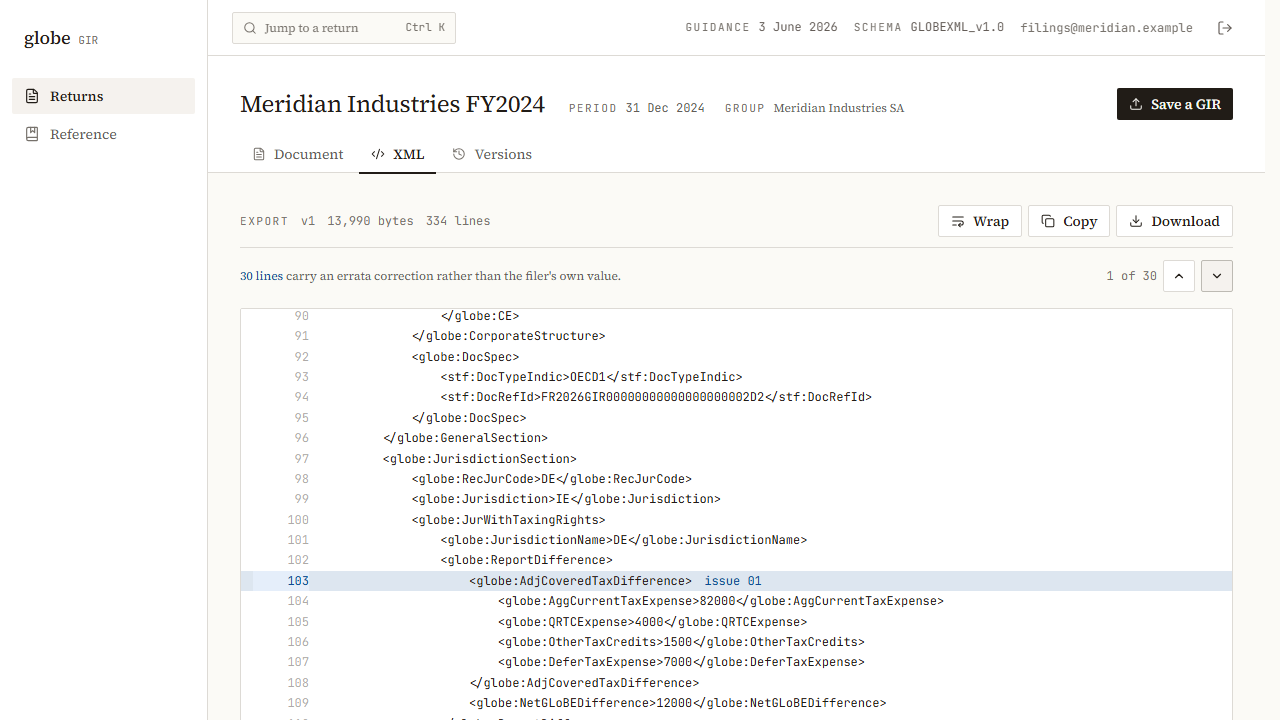
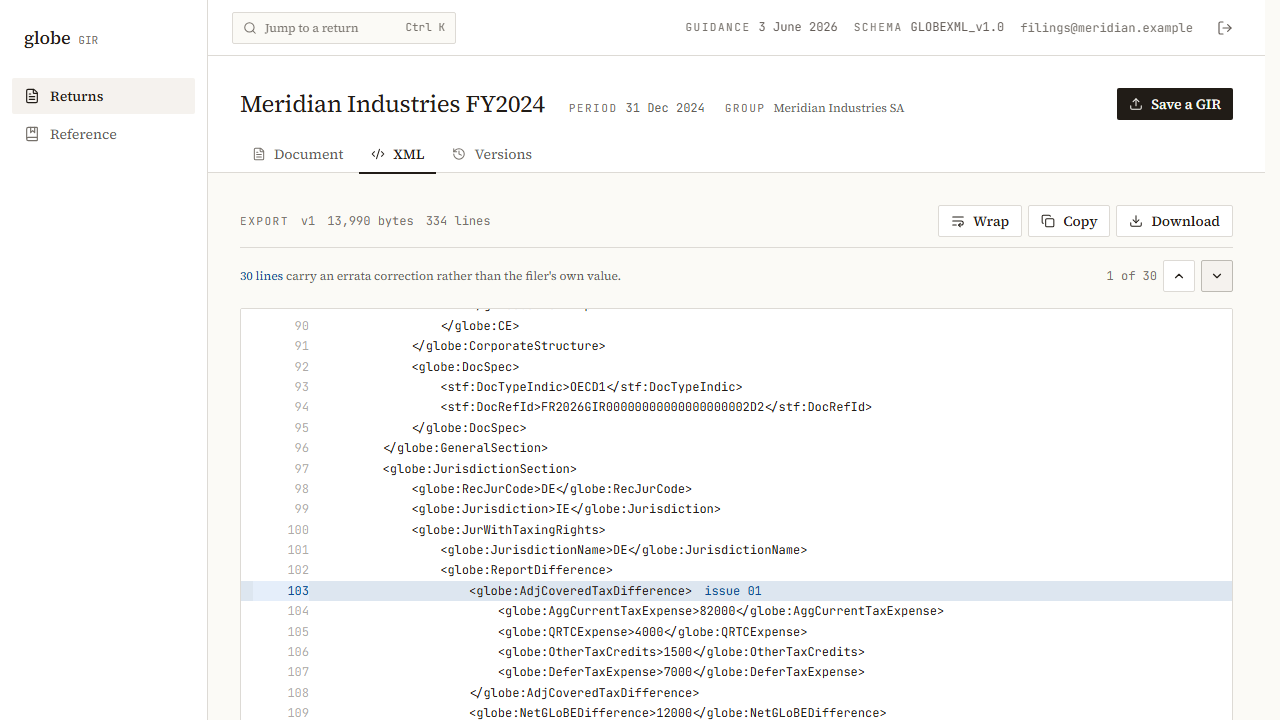
Give every route one width and stop the tree drawing 130 rules

Changed region(s): [[0.1875, 0.4278, 0.9688, 1.0]]

diff --git a/frontend/src/components/returns/document-node.tsx b/frontend/src/components/returns/document-node.tsx
@@ -2,7 +2,7 @@
 
 import { ChevronRight } from "lucide-react";
 import { AnimatePresence, motion } from "motion/react";
-import { type FC, useState } from "react";
+import { type CSSProperties, type FC, useState } from "react";
 import type { AnnotationIndex, NodeAnnotations } from "@/lib/annotations";
 import type { GirElement } from "@/lib/document";
 import {
@@ -48,6 +48,39 @@ const INDENT_REM = 0.875;
 // margin at a different offset and the column comes apart down the page.
 export const NODE_GRID = "grid grid-cols-[minmax(0,1fr)] lg:grid-cols-[minmax(0,1fr)_18rem]";
 
+/**
+ * A row carries no rule of its own.
+ *
+ * Several hundred rows each drawing a full-width border turns a document into a
+ * spreadsheet, and against that many lines nothing else on the page can register as
+ * structure. Hierarchy comes from the indent guide, which is what a horizontal rule
+ * never provided; tracking comes from hover, which costs nothing when nobody is
+ * pointing at the row.
+ */
+const ROW = "items-start gap-x-8";
+
+/**
+ * One faint vertical line per ancestor level, drawn as a repeating gradient.
+ *
+ * A guide per level would mean a nested wrapper per level, and the padding on this row
+ * already carries the indent, so the lines are painted into the row's own background
+ * instead. They sit half an indent left of the text, where a chevron would be.
+ *
+ * Kept far fainter than any real border: at depth six, six full-strength lines would be
+ * the crosshatch the row rules were removed to escape.
+ */
+const guides = (depth: number): CSSProperties => {
+  if (depth === 0) return {};
+
+  const step = `${INDENT_REM}rem`;
+  return {
+    backgroundImage: `repeating-linear-gradient(to right, var(--color-guide) 0 1px, transparent 1px ${step})`,
+    backgroundSize: `calc(${depth} * ${step}) 100%`,
+    backgroundRepeat: "no-repeat",
+    backgroundPosition: `${INDENT_REM / 2}rem 0`,
+  };
+};
+
 const DocumentNode: FC<DocumentNodeProps> = ({
   element,
   depth,
@@ -71,22 +104,19 @@ const DocumentNode: FC<DocumentNodeProps> = ({
 
   if (children.length === 0) {
     return (
-      <div
-        className={cn(NODE_GRID, "items-start gap-x-8 border-border/60 border-b")}
-        data-path={path}
-      >
+      <div className={cn(NODE_GRID, ROW)} data-path={path}>
         {/*
-          No hover background: a leaf has nothing to open and nothing to press. Tinting
-          it under the cursor promises an action that does not exist, and next to the
-          containers, which do respond, it made the whole tree ambiguous about what was
-          clickable.
+          A leaf tracks under the cursor but does not look pressable: the tint is half
+          the strength a container's is, and there is no cursor change. With no rule per
+          row, something has to hold the eye across to the value; this does that only
+          while the reader is actually pointing at the row.
         */}
         <div
           className={cn(
-            "grid grid-cols-[minmax(0,1fr)_auto] items-baseline gap-4 py-1.5 pr-2",
+            "grid grid-cols-[minmax(0,1fr)_auto] items-baseline gap-4 py-1.5 pr-2 transition-colors duration-150 hover:bg-sunk/45",
             note !== null && "bg-ink-applied/[0.035]",
           )}
-          style={{ paddingLeft: `${depth * INDENT_REM + 1.5}rem` }}
+          style={{ paddingLeft: `${depth * INDENT_REM + 1.5}rem`, ...guides(depth) }}
         >
           <span className="min-w-0 truncate font-mono text-sm text-text-muted">{name}</span>
 
@@ -102,7 +132,7 @@ const DocumentNode: FC<DocumentNodeProps> = ({
 
   return (
     <div data-path={path}>
-      <div className={cn(NODE_GRID, "items-start gap-x-8 border-border/60 border-b")}>
+      <div className={cn(NODE_GRID, ROW)}>
         <button
           aria-expanded={open}
           className={cn(
@@ -110,7 +140,7 @@ const DocumentNode: FC<DocumentNodeProps> = ({
             note !== null && "bg-ink-applied/[0.035]",
           )}
           onClick={() => setOpen((current) => !current)}
-          style={{ paddingLeft: `${depth * INDENT_REM + 0.25}rem` }}
+          style={{ paddingLeft: `${depth * INDENT_REM + 0.25}rem`, ...guides(depth) }}
           type="button"
         >
           <ChevronRight

diff --git a/frontend/src/components/returns/return-document.tsx b/frontend/src/components/returns/return-document.tsx
@@ -12,7 +12,7 @@ import type { GirDocument } from "@/lib/document";
 import { allPaths, childElements, childKey, localName } from "@/lib/document";
 import { queryKeys } from "@/lib/query-keys";
 import { cn } from "@/lib/utils";
-import DocumentNode, { NODE_GRID } from "./document-node";
+import DocumentNode from "./document-node";
 import JurisdictionFigures from "./jurisdiction-figures";
 import { ErrataNote, SuppressionNote } from "./margin-note";
 import ReturnHeader from "./return-header";
@@ -95,36 +95,38 @@ const ReturnDocument: FC<{ returnId: string }> = ({ returnId }) => {
       <ReturnHeader record={data.return} />
 
       <Measure className="py-8">
-        <div className={`${NODE_GRID} gap-x-8`}>
-          <div className="flex min-w-0 flex-wrap items-baseline gap-x-3 border-border border-b pb-2">
-            <span className="font-mono text-micro text-text-faint uppercase tracking-[0.14em]">
-              Document
-            </span>
-            <span className="font-mono text-text-faint text-xs">{localName(root.name)}</span>
-            <span className="figure ml-auto text-text-faint text-xs">v{version}</span>
-          </div>
+        {/*
+          One rule across the page, not one per column. The suppressions directly beneath
+          span the full width, so splitting this into "Document" and "Margin" halves drew
+          a header for two columns that do not begin until the tree further down, and left
+          the right-hand rule sitting over nothing.
 
-          <div className="hidden items-baseline justify-between border-border border-b pb-2 lg:flex">
-            <span className="font-mono text-micro text-text-faint uppercase tracking-[0.14em]">
-              Margin
-            </span>
+          No bottom border here either: whatever follows opens with its own rule, and two
+          of them 24px apart read as a mistake rather than as a division.
+        */}
+        <div className="flex h-11 flex-wrap items-center gap-x-3">
+          <span className="font-mono text-micro text-text-faint uppercase tracking-[0.14em]">
+            Document
+          </span>
+          <span className="font-mono text-text-faint text-xs">{localName(root.name)}</span>
+          <span className="figure text-text-faint text-xs">v{version}</span>
 
-            {validation.run !== null && (
-              <Button
-                disabled={isPending}
-                onClick={() => revalidate()}
-                size="sm"
-                variant="secondary"
-              >
-                <RefreshCw
-                  aria-hidden="true"
-                  className={cn("size-3.5", isPending && "animate-spin")}
-                  strokeWidth={1.75}
-                />
-                {isPending ? "Running" : "Re-run"}
-              </Button>
-            )}
-          </div>
+          {validation.run !== null && (
+            <Button
+              className="ml-auto"
+              disabled={isPending}
+              onClick={() => revalidate()}
+              size="sm"
+              variant="secondary"
+            >
+              <RefreshCw
+                aria-hidden="true"
+                className={cn("size-3.5", isPending && "animate-spin")}
+                strokeWidth={1.75}
+              />
+              {isPending ? "Running" : "Re-run"}
+            </Button>
+          )}
         </div>
 
         {validation.run === null ? (

diff --git a/frontend/src/components/returns/return-header.tsx b/frontend/src/components/returns/return-header.tsx
@@ -5,14 +5,13 @@ import Link from "next/link";
 import { usePathname } from "next/navigation";
 import { type FC, useState } from "react";
 import Button from "@/components/ui/button";
-import Measure, { type MeasureName } from "@/components/ui/measure";
+import Measure from "@/components/ui/measure";
 import type { ReturnRecord } from "@/lib/api";
 import { cn, formatPeriod } from "@/lib/utils";
 import SaveVersionDialog from "./save-version-dialog";
 
 interface ReturnHeaderProps {
   readonly record: ReturnRecord;
-  readonly measure?: MeasureName;
   /**
    * Opens the caller's own save dialog instead of this one.
    *
@@ -30,7 +29,7 @@ interface ReturnHeaderProps {
  * prefetch, so they have to be navigable, shareable and openable in a new tab. A
  * client-side tab widget would make three of the product's five surfaces unlinkable.
  */
-const ReturnHeader: FC<ReturnHeaderProps> = ({ record, measure = "document", onSave }) => {
+const ReturnHeader: FC<ReturnHeaderProps> = ({ record, onSave }) => {
   const pathname = usePathname();
   const [saving, setSaving] = useState(false);
 
@@ -45,7 +44,7 @@ const ReturnHeader: FC<ReturnHeaderProps> = ({ record, measure = "document", onS
 
   return (
     <header className="border-border border-b bg-surface">
-      <Measure as={measure} className="pt-8">
+      <Measure className="pt-8">
         <div className="flex flex-wrap items-center justify-between gap-x-6 gap-y-3">
           <div className="flex min-w-0 flex-wrap items-baseline gap-x-6 gap-y-2">
             <h1 className="min-w-0 font-normal text-2xl tracking-[-0.015em]">{record.name}</h1>

diff --git a/frontend/src/components/ui/measure.tsx b/frontend/src/components/ui/measure.tsx
@@ -1,23 +1,26 @@
 import type { FC, ReactNode } from "react";
 import { cn } from "@/lib/utils";
 
-// A page and its header must read the same measure, or the two sit at different widths
-// and the page shifts sideways when the tab changes.
-const MEASURE = {
-  document: "max-w-6xl",
-  prose: "max-w-3xl",
-} as const;
-
-export type MeasureName = keyof typeof MEASURE;
+/**
+ * One page width, everywhere.
+ *
+ * Every route shares this shell so the content does not jump sideways when the rail
+ * takes you between them. An earlier version offered a second, narrower measure for
+ * reading pages; that fixed a header sitting at one width above a body at another, and
+ * replaced it with the reference page snapping 384px narrower than every other route.
+ *
+ * Long-form text still wants a shorter line than 1152px. It gets one from `max-w-prose`
+ * on the paragraph itself, which narrows the text without moving the page around it.
+ */
+const MEASURE = "max-w-6xl";
 
 interface MeasureProps {
   readonly children: ReactNode;
-  readonly as?: MeasureName;
   readonly className?: string;
 }
 
-const Measure: FC<MeasureProps> = ({ children, as = "document", className }) => (
-  <div className={cn("mx-auto w-full px-4 sm:px-8", MEASURE[as], className)}>{children}</div>
+const Measure: FC<MeasureProps> = ({ children, className }) => (
+  <div className={cn("mx-auto w-full px-4 sm:px-8", MEASURE, className)}>{children}</div>
 );
 
 export default Measure;

diff --git a/frontend/src/components/returns/versions-view.tsx b/frontend/src/components/returns/versions-view.tsx
@@ -62,9 +62,14 @@ const VersionsView: FC<{ returnId: string }> = ({ returnId }) => {
               <span className="text-right">Export</span>
             </div>
 
+            {/*
+              Rules between rows, not under every one. A trailing rule under the last row
+              sits directly above whatever follows and reads as a stray line rather than
+              as the end of the list.
+            */}
             {newestFirst.map((version) => (
               <div
-                className="grid grid-cols-[4rem_1fr_auto] items-baseline gap-4 border-border border-b px-3 py-3.5"
+                className="grid grid-cols-[4rem_1fr_auto] items-baseline gap-4 border-border border-b px-3 py-3.5 last:border-b-0"
                 key={version.id}
               >
                 <span className="figure font-medium text-sm">v{version.version}</span>
@@ -87,7 +92,7 @@ const VersionsView: FC<{ returnId: string }> = ({ returnId }) => {
             ))}
 
             {pair === null ? (
-              <p className="mt-10 border-border border-t pt-4 text-sm text-text-faint leading-relaxed">
+              <p className="mt-10 text-sm text-text-faint leading-relaxed">
                 Save a second version to compare it against this one.
               </p>
             ) : (

diff --git a/frontend/src/components/returns/jurisdiction-figures.tsx b/frontend/src/components/returns/jurisdiction-figures.tsx
@@ -48,8 +48,11 @@ const Row: FC<{ jurisdiction: ComputedJurisdiction }> = ({ jurisdiction }) => {
   const { code, etrRate, topUpTax, additionalTopUpTax, breaches, roundingBreachesTolerance } =
     jurisdiction;
 
+  // Rules between rows only. This is a real multi-column table, where a rule does the
+  // horizontal tracking a two-column tree does not need, but a trailing one under the
+  // last row would sit against the end of the page as a stray line.
   return (
-    <div className="border-border/60 border-b py-3">
+    <div className="border-border border-b py-3 last:border-b-0">
       <div className="grid grid-cols-[3rem_minmax(0,1fr)] items-baseline gap-4 sm:grid-cols-[3rem_repeat(3,minmax(0,1fr))]">
         <span className="font-medium text-sm">{code ?? "--"}</span>
 

diff --git a/frontend/src/components/returns/returns-list.tsx b/frontend/src/components/returns/returns-list.tsx
@@ -100,7 +100,7 @@ const ReturnsList: FC = () => {
           */}
           {returns.map((item) => (
             <div
-              className="group grid grid-cols-[1fr_2rem] items-center border-border border-b transition-colors duration-150 hover:bg-sunk/50"
+              className="group grid grid-cols-[1fr_2rem] items-center border-border border-b transition-colors duration-150 last:border-b-0 hover:bg-sunk/50"
               key={item.id}
             >
               <Link

diff --git a/frontend/src/app/globals.css b/frontend/src/app/globals.css
@@ -22,6 +22,12 @@
   --color-border: oklch(89% 0.008 85);
   --color-border-strong: oklch(79% 0.01 85);
 
+  /*
+   * The tree's indent guides. Deliberately below `border`: one appears per ancestor
+   * level, so at depth six a border-strength line would crosshatch the row.
+   */
+  --color-guide: oklch(93.5% 0.006 85);
+
   --color-text: oklch(23% 0.012 60);
   --color-text-muted: oklch(48% 0.012 65);
 

diff --git a/frontend/src/components/reference/reference-view.tsx b/frontend/src/components/reference/reference-view.tsx
@@ -38,7 +38,7 @@ const ReferenceView: FC = () => {
   const disappliedRules = issues.filter((issue) => issue.validationRule !== null);
 
   return (
-    <Measure as="prose" className="py-10">
+    <Measure className="py-10">
       <h1 className="font-normal text-3xl tracking-[-0.015em]">Reference</h1>
 
       <p className="mt-4 max-w-prose text-lg text-text-muted leading-relaxed">
